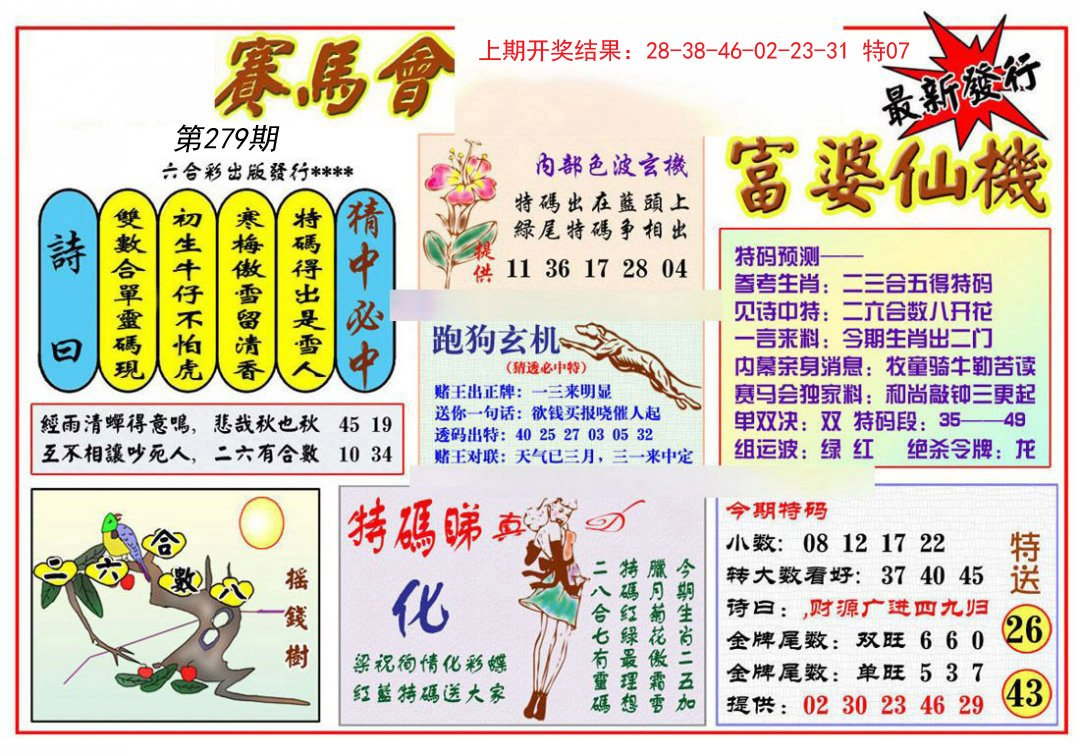
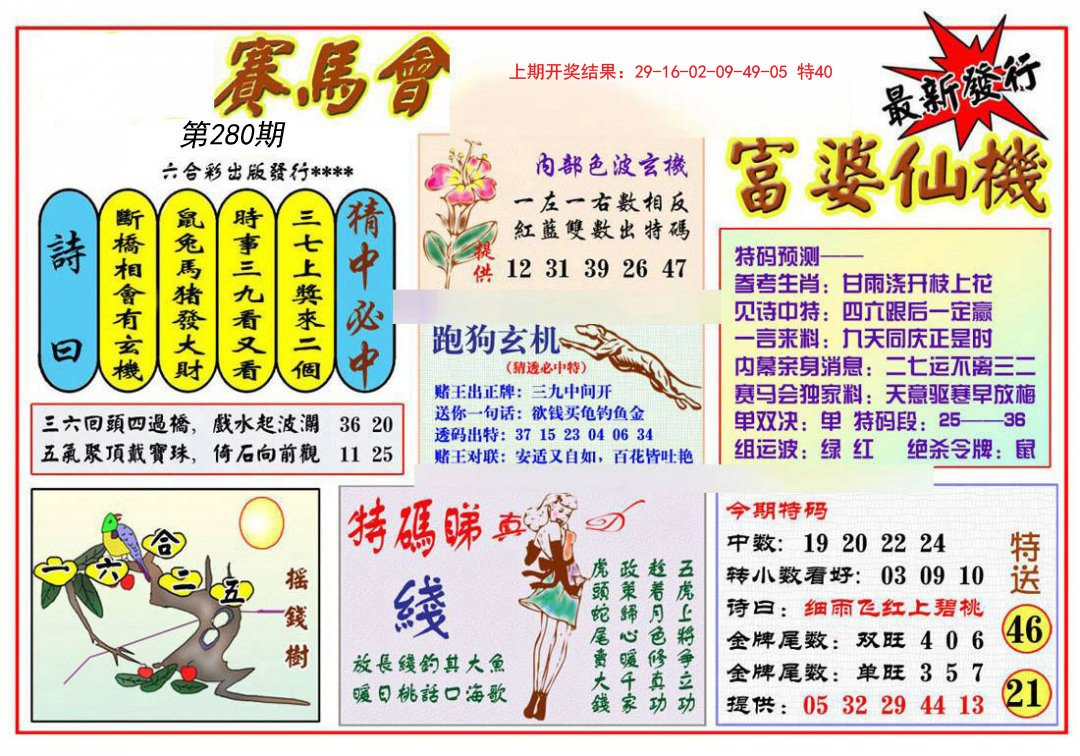
Update:  2024.10.06 12:20:31

diff --git a/Script/Src/xjw/3q4x8m.js b/Script/Src/xjw/3q4x8m.js
@@ -53,14 +53,55 @@ document.writeln("	<!----开始---->    ");
 document.writeln("	<table border=\'1\' width=\'100%\' cellpadding=\'0\' height=\'83\' cellspacing=\'0\' bgcolor=\'#FFFFFF\' bordercolor=\'#D4D4D4\' style=\'border-collapse: collapse\'>");
 document.writeln("		<tr>");
 document.writeln("		<td  height=\'11\' align=\'center\' bgcolor=\'#FFFFFF\' width=\'10%\'>");
+document.writeln("		<b><font face=\'微软雅黑\'>282期</font></b></td>");
+document.writeln("		<td align=\'center\' bgcolor=\'#FFFFFF\' width=\'65%\' rowspan=\'3\'>");
+document.writeln("		<strong>");
+document.writeln("		<font face=\'微软雅黑\' size=\'5\' color=\'#FF0000\'>狗兔蛇牛<br>");
+document.writeln("		</font>");
+document.writeln("		<font face=\'微软雅黑\' color=\'#FF0000\' size=\"4\">（31.43.02.14.12.36.04.16</td>");
+document.writeln("		<td  height=\'11\' align=\'center\' bgcolor=\'#FFFFFF\' width=\'10%\'>");
+document.writeln("		<font face=\'微软雅黑\'>开:0000</font></td>");
+document.writeln("		</tr>");
+document.writeln("	<tr>");
+document.writeln("		<td  height=\'11\' align=\'center\' bgcolor=\'#FFFFFF\' width=\'10%\'>");
+document.writeln("		<b style=\'padding: 0px; margin: 0px; word-wrap: break-word;\'>");
+document.writeln("		<font face=\'微软雅黑\' style=\'word-wrap: break-word; margin: 0px; padding: 0px\'>");
+document.writeln("		281期</font></b></td>");
+document.writeln("		<td  height=\'11\' align=\'center\' bgcolor=\'#FFFFFF\' width=\'10%\'>");
+document.writeln("		<font face=\'微软雅黑\'>开:0000</font></td>");
+document.writeln("		</tr>");
+document.writeln("	<tr>");
+document.writeln("		<td align=\'center\' bgcolor=\'#FFFFFF\' width=\'10%\' style=\'height: 26px\'>");
+document.writeln("		<b style=\'padding: 0px; margin: 0px; word-wrap: break-word;\'>");
+document.writeln("		<font face=\'微软雅黑\' style=\'word-wrap: break-word; margin: 0px; padding: 0px\'>");
+document.writeln("		280期</font></b></td>");
+document.writeln("		<td align=\'center\' bgcolor=\'#FFFFFF\' width=\'10%\' style=\'height: 26px\'>");
+document.writeln("		<font face=\'微软雅黑\'>开:0000</font></td>");
+document.writeln("		</tr>");
+document.writeln("		</table>");
+document.writeln("		");
+document.writeln("<!----结束----> ");
+
+
+
+
+
+
+
+
+
+document.writeln("	<!----开始---->    ");
+document.writeln("	<table border=\'1\' width=\'100%\' cellpadding=\'0\' height=\'83\' cellspacing=\'0\' bgcolor=\'#FFFFFF\' bordercolor=\'#D4D4D4\' style=\'border-collapse: collapse\'>");
+document.writeln("		<tr>");
+document.writeln("		<td  height=\'11\' align=\'center\' bgcolor=\'#FFFFFF\' width=\'10%\'>");
 document.writeln("		<b><font face=\'微软雅黑\'>279期</font></b></td>");
 document.writeln("		<td align=\'center\' bgcolor=\'#FFFFFF\' width=\'65%\' rowspan=\'3\'>");
 document.writeln("		<strong>");
-document.writeln("		<font face=\'微软雅黑\' size=\'5\' color=\'#FF0000\'>龙<span style='background-color: #FFFF00\'>兔</span>马牛<br>");
+document.writeln("		<font face=\'微软雅黑\' size=\'5\' color=\'#FF0000\'>龙<span style='background-color: #FFFF00\'>兔</span>马<span style='background-color: #FFFF00\'>牛</span><br>");
 document.writeln("		</font>");
 document.writeln("		<font face=\'微软雅黑\' color=\'#FF0000\' size=\"4\">（25.37.14.<span style='background-color: #FFFF00\'>26</span>.23.35.16.28</td>");
 document.writeln("		<td  height=\'11\' align=\'center\' bgcolor=\'#FFFFFF\' width=\'10%\'>");
-document.writeln("		<font face=\'微软雅黑\'>开:0000</font></td>");
+document.writeln("		<font face=\'微软雅黑\'>开:牛40</font></td>");
 document.writeln("		</tr>");
 document.writeln("	<tr>");
 document.writeln("		<td  height=\'11\' align=\'center\' bgcolor=\'#FFFFFF\' width=\'10%\'>");

diff --git a/Script/Src/xjw/杀两肖图.js b/Script/Src/xjw/杀两肖图.js
@@ -35,8 +35,8 @@ document.writeln("	");
 document.writeln("			<tr style=\'box-sizing: border-box;\'>");
 document.writeln("			<td height=\'40\' style=\'box-sizing: border-box;\'>");
 document.writeln("			");
-document.writeln("<a target=\'_blank\' href=\'https://x1.xn--c2be8bbg0fl3ewb.xn--i1b6b1a6a2e:8443/#/picture/28585\'><img src=\'https://mtu.wyvogue.com:4949/col/279/c002.jpg\'  width=\'49%\'></a>");
-document.writeln("<a target=\'_blank\' href=\'https://x1.xn--c2be8bbg0fl3ewb.xn--i1b6b1a6a2e:8443/#/picture/209029\'><img src=\'https://mtu.wyvogue.com:4949/col/279/hj44.jpg\'  width=\'49%\'></a>");
+document.writeln("<a target=\'_blank\' href=\'https://x1.xn--c2be8bbg0fl3ewb.xn--i1b6b1a6a2e:8443/#/picture/28585\'><img src=\'https://mtu.wyvogue.com:4949/col/280/c002.jpg\'  width=\'49%\'></a>");
+document.writeln("<a target=\'_blank\' href=\'https://x1.xn--c2be8bbg0fl3ewb.xn--i1b6b1a6a2e:8443/#/picture/209029\'><img src=\'https://mtu.wyvogue.com:4949/col/280/hj44.jpg\'  width=\'49%\'></a>");
 document.writeln("		</td></tr>");
 document.writeln("		");
 document.writeln("		");
@@ -52,15 +52,32 @@ document.writeln("		");
 
 
 document.writeln("");
+document.writeln("				");
+document.writeln("<!--开始-->");
+document.writeln("				<tr style=\'box-sizing: border-box;\'>");
+document.writeln("					<td height=\'40\' style=\'box-sizing: border-box;\'>");
+document.writeln("			<p align=\'center\' style=\'box-sizing: border-box; padding: 0px; margin: 0px;\'>");
+document.writeln("			<font size=\'4\' style=\'margin: 0px; padding: 0px;\'>");
+document.writeln("			280期玄机网禁两肖<font color=\'#FF0000\'>【兔蛇】</font>特开<font color=\'#0000FF\'>？00</font>准<br>");
+document.writeln("			280期澳门杀两肖图<font color=\'#FF0000\'>【鸡兔】</font>特开<font color=\'#0000FF\'>？00</font>准<br>");
+document.writeln("			280期澳门图库禁肖<font color=\'#FF0000\'>【牛蛇】</font>特开<font color=\'#0000FF\'>？00</font>准</font></font></p></td>");
+document.writeln("		</tr>");
+document.writeln("<!--结束-->	");
+document.writeln("		");
+
+
+
+
+document.writeln("");
 document.writeln("");
 document.writeln("					<!--开始-->");
 document.writeln("				<tr style=\'box-sizing: border-box;\'>");
 document.writeln("					<td height=\'40\' style=\'box-sizing: border-box;\'>");
 document.writeln("			<p align=\'center\' style=\'box-sizing: border-box; padding: 0px; margin: 0px;\'>");
 document.writeln("			<font size=\'4\' style=\'margin: 0px; padding: 0px;\'>");
-document.writeln("			279期玄机网禁两肖<font color=\'#FF0000\'>【狗鸡】</font>特开<font color=\'#0000FF\'>？00</font>准<br>");
-document.writeln("			279期澳门杀两肖图<font color=\'#FF0000\'>【鼠狗】</font>特开<font color=\'#0000FF\'>？00</font>准<br>");
-document.writeln("			279期澳门图库禁肖<font color=\'#FF0000\'>【鼠马】</font>特开<font color=\'#0000FF\'>？00</font>准</font></font></p></td>");
+document.writeln("			279期玄机网禁两肖<font color=\'#FF0000\'>【狗鸡】</font>特开<font color=\'#0000FF\'>牛40</font>准<br>");
+document.writeln("			279期澳门杀两肖图<font color=\'#FF0000\'>【鼠狗】</font>特开<font color=\'#0000FF\'>牛40</font>准<br>");
+document.writeln("			279期澳门图库禁肖<font color=\'#FF0000\'>【鼠马】</font>特开<font color=\'#0000FF\'>牛40</font>准</font></font></p></td>");
 document.writeln("		</tr>");
 document.writeln("<!--结束-->	");
 document.writeln("		");
